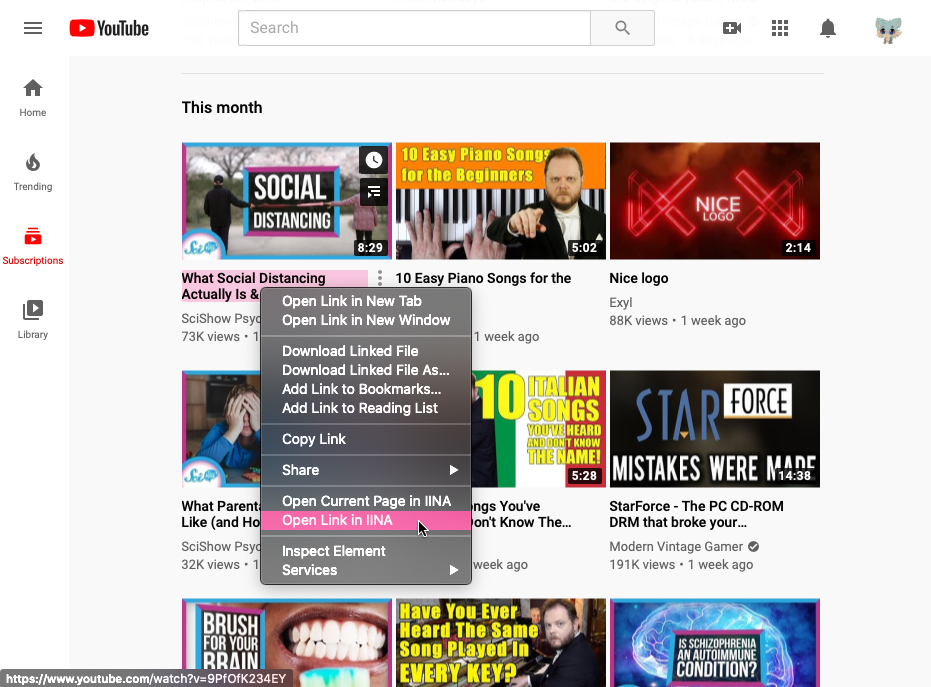
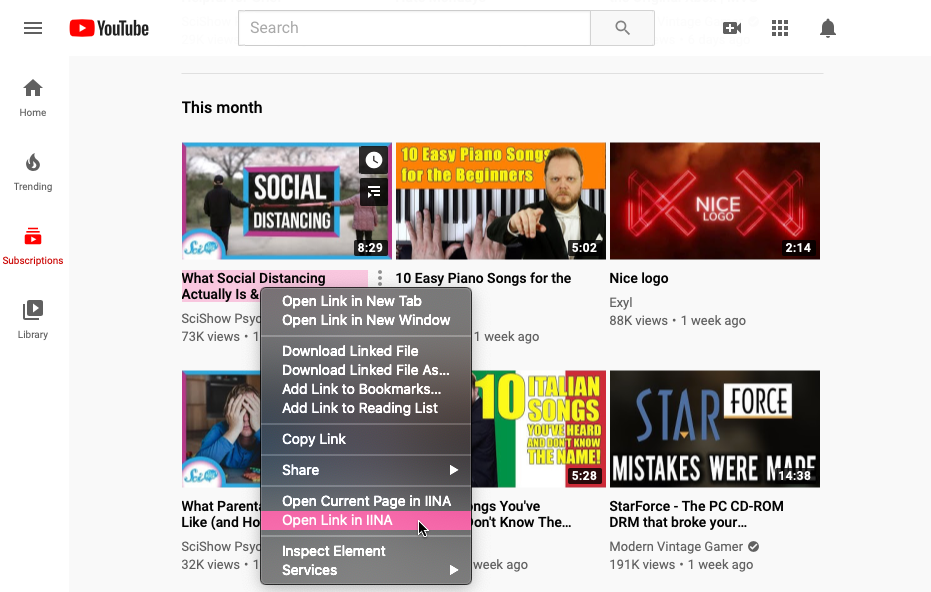
Update article

diff --git a/content/posts/4k-in-safari-without-pain.md b/content/posts/4k-in-safari-without-pain.md
@@ -1,8 +1,8 @@
 ---
 author: Ixion
-title: How to watch 4K YouTube and WebM in Safari
-date: "2020-04-12"
-summary: It's well known that Safari doesn't support VP9 or WebM, but I've found a workaround that doesn't involve switching to Chrome. Read on!
+title: How to watch 4K YouTube in Safari
+date: "2024-03-15"
+summary: YouTube no longer allows 4K playback on Safari, but you don't have to switch to Chrome, here's the solution
 tags: 
 - macos
 - safari
@@ -10,17 +10,13 @@ categories:
 - tutorials
 ---
 
-**Update:** macOS Big Sur 11.3 now supports WebM in Safari, so you no longer have to use IINA to watch high-resolution content. You can still use this guide if you want better sounding audio when watching videos at higher speed or if you don't like YouTube's interface.
+> Updated for 2024, now that YouTube once again blocks 4K playback on Safari.
 
-It's well known that Safari doesn't support playing VP9 or WebM videos out of the box, but I've found a workaround that doesn't involve installing Chrome or having to launch VLC every time.
+![IINA Logo](/post_files/4k-in-safari-without-pain/iina.png)
 
-For context, I use Safari almost exclusively due to its simplicity, features and integration with iOS devices. Unfortunately, due to Apple only supporting licensed video codecs like HEVC, Safari has 0 support for VP8/VP9. What this means is that YouTube on Safari will not play above 1080p no matter what, and WebM's won't play at all. However, you don't have to use YouTube's web player. Enter IINA:
+YouTube has recently started blocking playback of 4K videos on Safari, even though it was possible before and Safari fully supported decoding WebM for years now, but I've found a workaround that doesn't involve installing Chrome or having to launch VLC every time.
 
-| ![IINA Logo](https://raw.githubusercontent.com/iina/iina/develop/iina/Assets.xcassets/AppIcon.appiconset/iina-icon-256.png) |
-|:--:|
-| *IINA is the modern video player for macOS.* |
-
-IINA is a modern media player that was made specifically for macOS. Not only does it look nicer and have more features (Picture-in-Picture, anyone?), it also supports almost all of the audio and video codecs that VLC supports and allows you to play YouTube videos as any other network media source. Furthermore, it also offers a Safari plug-in that adds right-click menu options and a toolbar icon to easily open videos in IINA without having to launch it manually.
+IINA is a modern media player that was made specifically for macOS. Not only does it look nicer and have more features (ex. Picture-in-Picture), but it also supports almost all of the audio and video codecs that VLC supports and allows you to play YouTube videos as any other network media source. Furthermore, it also offers a Safari plug-in that adds right-click menu options and a toolbar icon to easily open videos in IINA without having to launch it manually.
 
 So, what does using IINA with YouTube look like? Here's a demonstration:
 
@@ -34,19 +30,26 @@ So, what does using IINA with YouTube look like? Here's a demonstration:
 
 | ![IINA main window](/post_files/4k-in-safari-without-pain/3.png) |
 |:--:|
-| *And you're up and running with your crispy 4K video!* |
+| *And you're now watching 4K videos!* |
 
-It's just that easy. It just takes one more click to open your videos in max quality. Furthermore, why stop at 4K? IINA can view 8K content as well!
+| ![IINA at 8K quality](/post_files/4k-in-safari-without-pain/4.png) |
+|:--:|
+| *Why stop at 4K? IINA can play 8K content as well!* |
 
-![IINA at 8K quality](/post_files/4k-in-safari-without-pain/4.png)
-
-ANYWAY, here's how you can set up this workflow on your machine:
+Here's how you can set this up on your machine:
 
 ## Prerequisites
 
 1. Install *IINA* from the official website: [https://iina.io](https://iina.io)
 2. Install *Homebrew* if you don't have it already: [https://brew.sh](https://brew.sh)
-3. Install *youtube-dl* from homebrew using the following Terminal.app command: `brew install youtube-dl`
+3. Install *yt-dlp* from homebrew using the following Terminal.app command: `brew install yt-dlp`
+
+You'll also need to run the following terminal commands to make IINA use `yt-dlp` instead of `youtube-dl` which has been long outdated:
+
+```sh
+mkdir -p ~/.local/bin
+ln -s $(brew --prefix)/bin/yt-dlp /Users/$(whoami)/.local/bin
+```
 
 Now that you've installed everything, you'll need to do some setup in order to make sure that you can actually open videos from Safari and in high quality.
 
@@ -58,16 +61,14 @@ Now that you've installed everything, you'll need to do some setup in order to m
 
 At this point, there are a few different options that you can specify in youtube-dl settings:
 
-**Custom youtube-dl path**: `/usr/local/bin` for macOS Intel, `/opt/homebrew/bin` for Apple Silicon
+**Custom youtube-dl path**: `~/.local/bin`
 
-As for **Raw options**, you can set up some preferences for how you'd like IINA to select video streams:
+By default, IINA will play the highest quality available, but you can also set some **Raw options** to enforce an upper boundary on video quality:
 
-Up to **4K**, prefer 60 FPS (recommended): `format="bestvideo[fps>=50,ext=mp4,height<=?2160]+bestaudio/best[ext=m4a,height<=?2160]"`
+Up to **4K**, prefer 60 FPS: `format="bestvideo[fps>=50,ext=mp4,height<=?2160]+bestaudio/best[ext=m4a,height<=?2160]"`
 
 Up to **1080p**, prefer 60 FPS: `format="bestvideo[fps>=50,ext=mp4,height<=?1080]+bestaudio/best[ext=m4a,height<=?1080]"`
 
-Highest quality available (usually **8K**): `format="bestvideo+bestaudio/best"`
-
-Once you've entered your raw options, press enter and quit IINA. Next time you launch IINA, it will be able to play 4K YouTube videos.
+Aftwerwards, close the window and quit IINA. Next time you launch IINA, it will be able to play 4K YouTube videos.
 
 Hope this was helpful!
